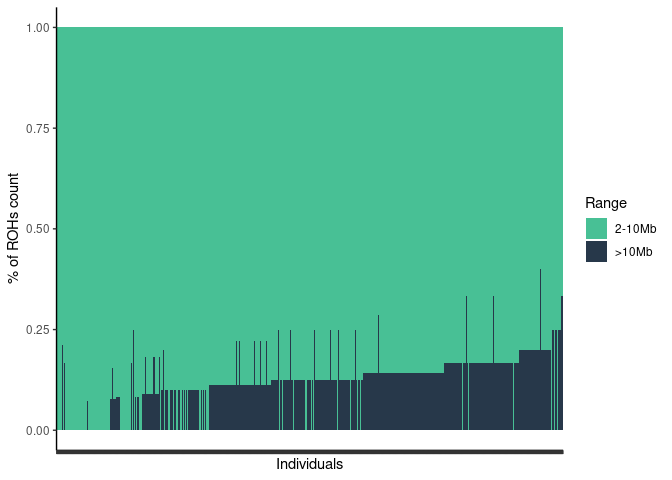
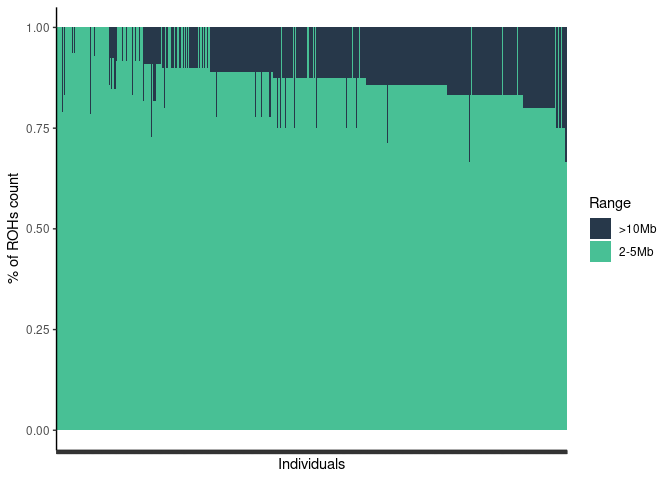
new average ROH plot

diff --git a/roh/roh.md b/roh/roh.md
@@ -13,47 +13,63 @@ ROHs quality histogram
 
 ## Results
 
-### All results below are ROHs filter for autosomes with Quality &gt; 25% andNumber of markers &gt;= 50
+### All results below are ROHs filter for autosomes with Quality &gt; 25% and Number of markers &gt;= 50
 
-Number of ROHs with length in specific ranges
+1.  Average sum of ROHs
 
-![](roh_files/figure-gfm/roh-1.png)<!-- -->
+![](roh_files/figure-gfm/total_roh-1.png)<!-- -->
 
-% of ROhs per category in sample
+|     | mean\_SROH\_Mb  |
+|:----|:----------------|
+|     | Min. : 5.821    |
+|     | 1st Qu.: 29.297 |
+|     | Median : 34.491 |
+|     | Mean : 34.332   |
+|     | 3rd Qu.: 39.067 |
+|     | Max. :144.543   |
 
-    ## `summarise()` has grouped output by 'Range'. You can override using the `.groups` argument.
+2.  Sum of ROH length per range
 
-![](roh_files/figure-gfm/roh_count-1.png)<!-- -->
-
-ROH length sum
-
-    ## `summarise()` has grouped output by 'Range'. You can override using the `.groups` argument.
-
-![](roh_files/figure-gfm/roh_sum-1.png)<!-- -->
-
-Sum of ROH length per range
+<!-- -->
 
     ## `summarise()` has grouped output by 'Range'. You can override using the `.groups` argument.
 
 ![](roh_files/figure-gfm/SROH-1.png)<!-- -->
 
-Relationship between number of ROHs and total length of genome covered
-by them
+|     | &gt;10Mb       | 2-5Mb          |
+|:----|:---------------|:---------------|
+|     | Min. : 10.00   | Min. : 5.815   |
+|     | 1st Qu.: 15.89 | 1st Qu.:15.387 |
+|     | Median : 16.72 | Median :18.615 |
+|     | Mean : 17.78   | Mean :18.859   |
+|     | 3rd Qu.: 17.17 | 3rd Qu.:21.595 |
+|     | Max. :104.20   | Max. :42.199   |
+
+3.  Relationship between number of ROHs and total length of genome
+    covered by them
 
 ![](roh_files/figure-gfm/cummulative-1.png)<!-- -->
 
-Number of ROHs per sample
+4.  % of ROhs per category in sample
 
-    ## `summarise()` has grouped output by 'sample_id'. You can override using the `.groups` argument.
+![](roh_files/figure-gfm/roh_count-1.png)<!-- -->
+
+5.  ROH length sum
+
+![](roh_files/figure-gfm/roh_sum-1.png)<!-- -->
+
+6.  Number of ROHs per sample
 
 ![](roh_files/figure-gfm/roh_count_per_sample-1.png)<!-- -->
 
-Average ROHs per sample
+7.  Average ROHs per sample
+
+<!-- -->
 
     ## `summarise()` has grouped output by 'sample_id'. You can override using the `.groups` argument.
 
 ![](roh_files/figure-gfm/average_roh_per_sample-1.png)<!-- -->
 
-Cosanguinity in population
+8.  Cosanguinity in population
 
 ![](roh_files/figure-gfm/unnamed-chunk-4-1.png)<!-- -->
